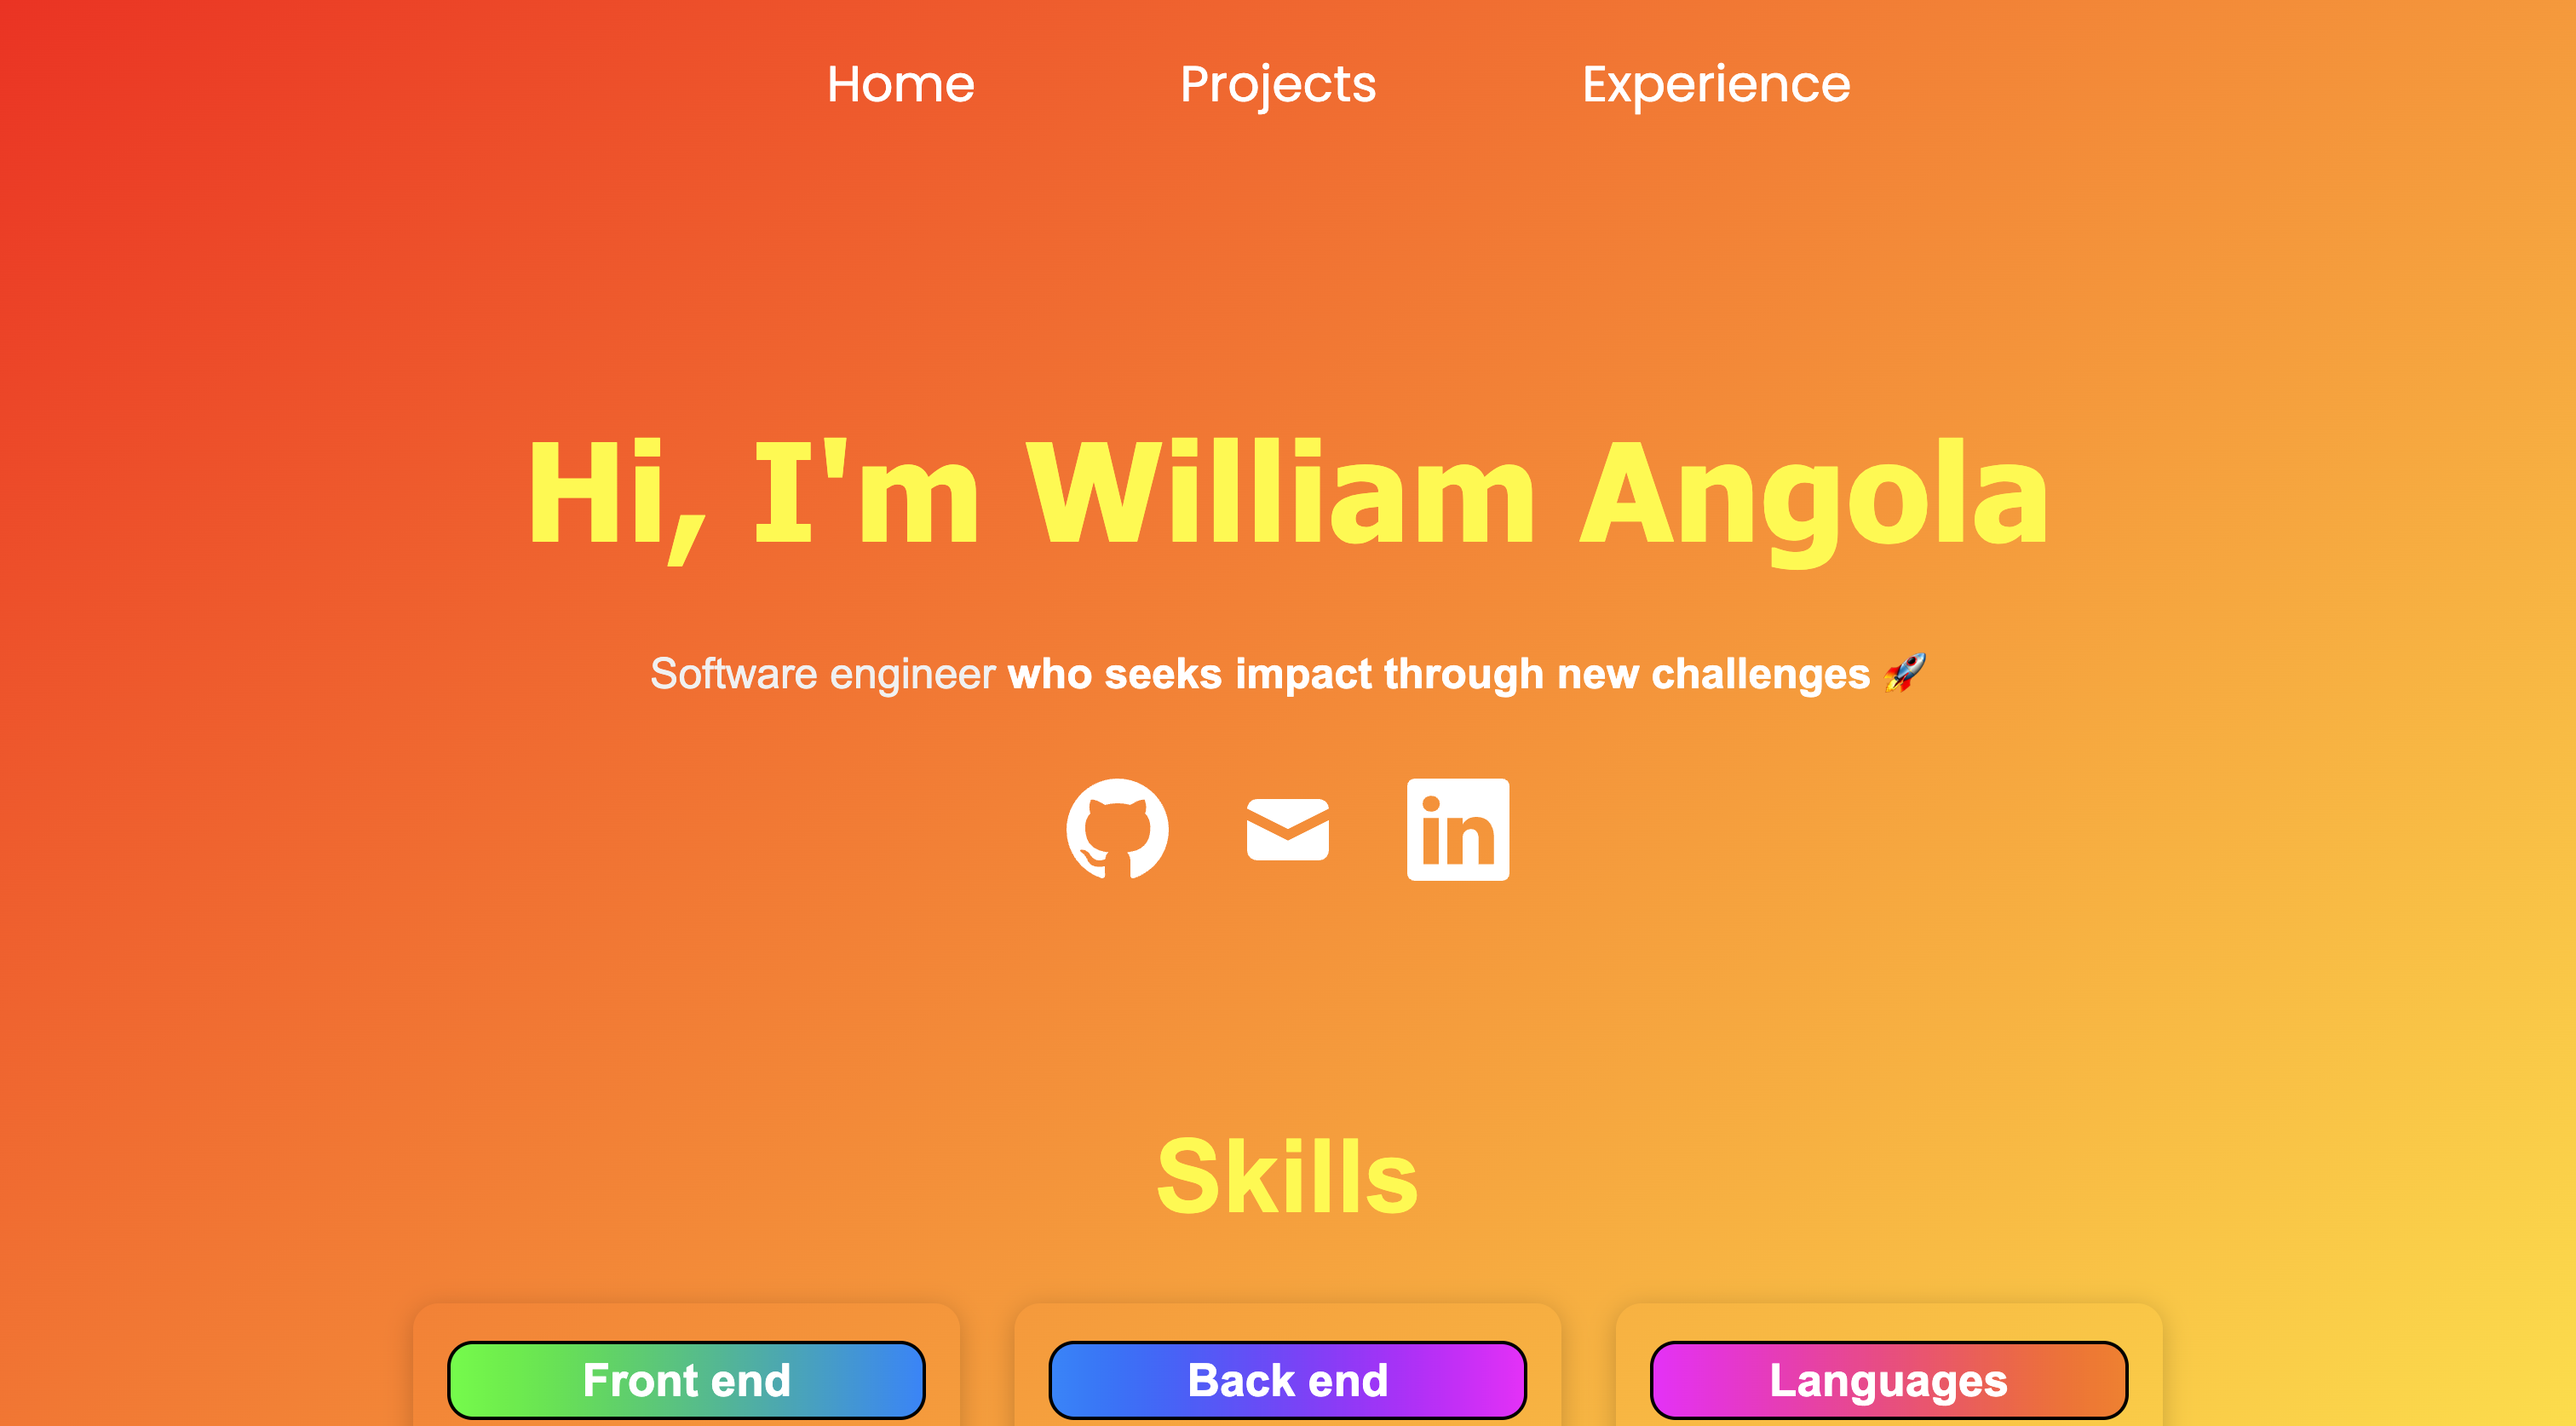
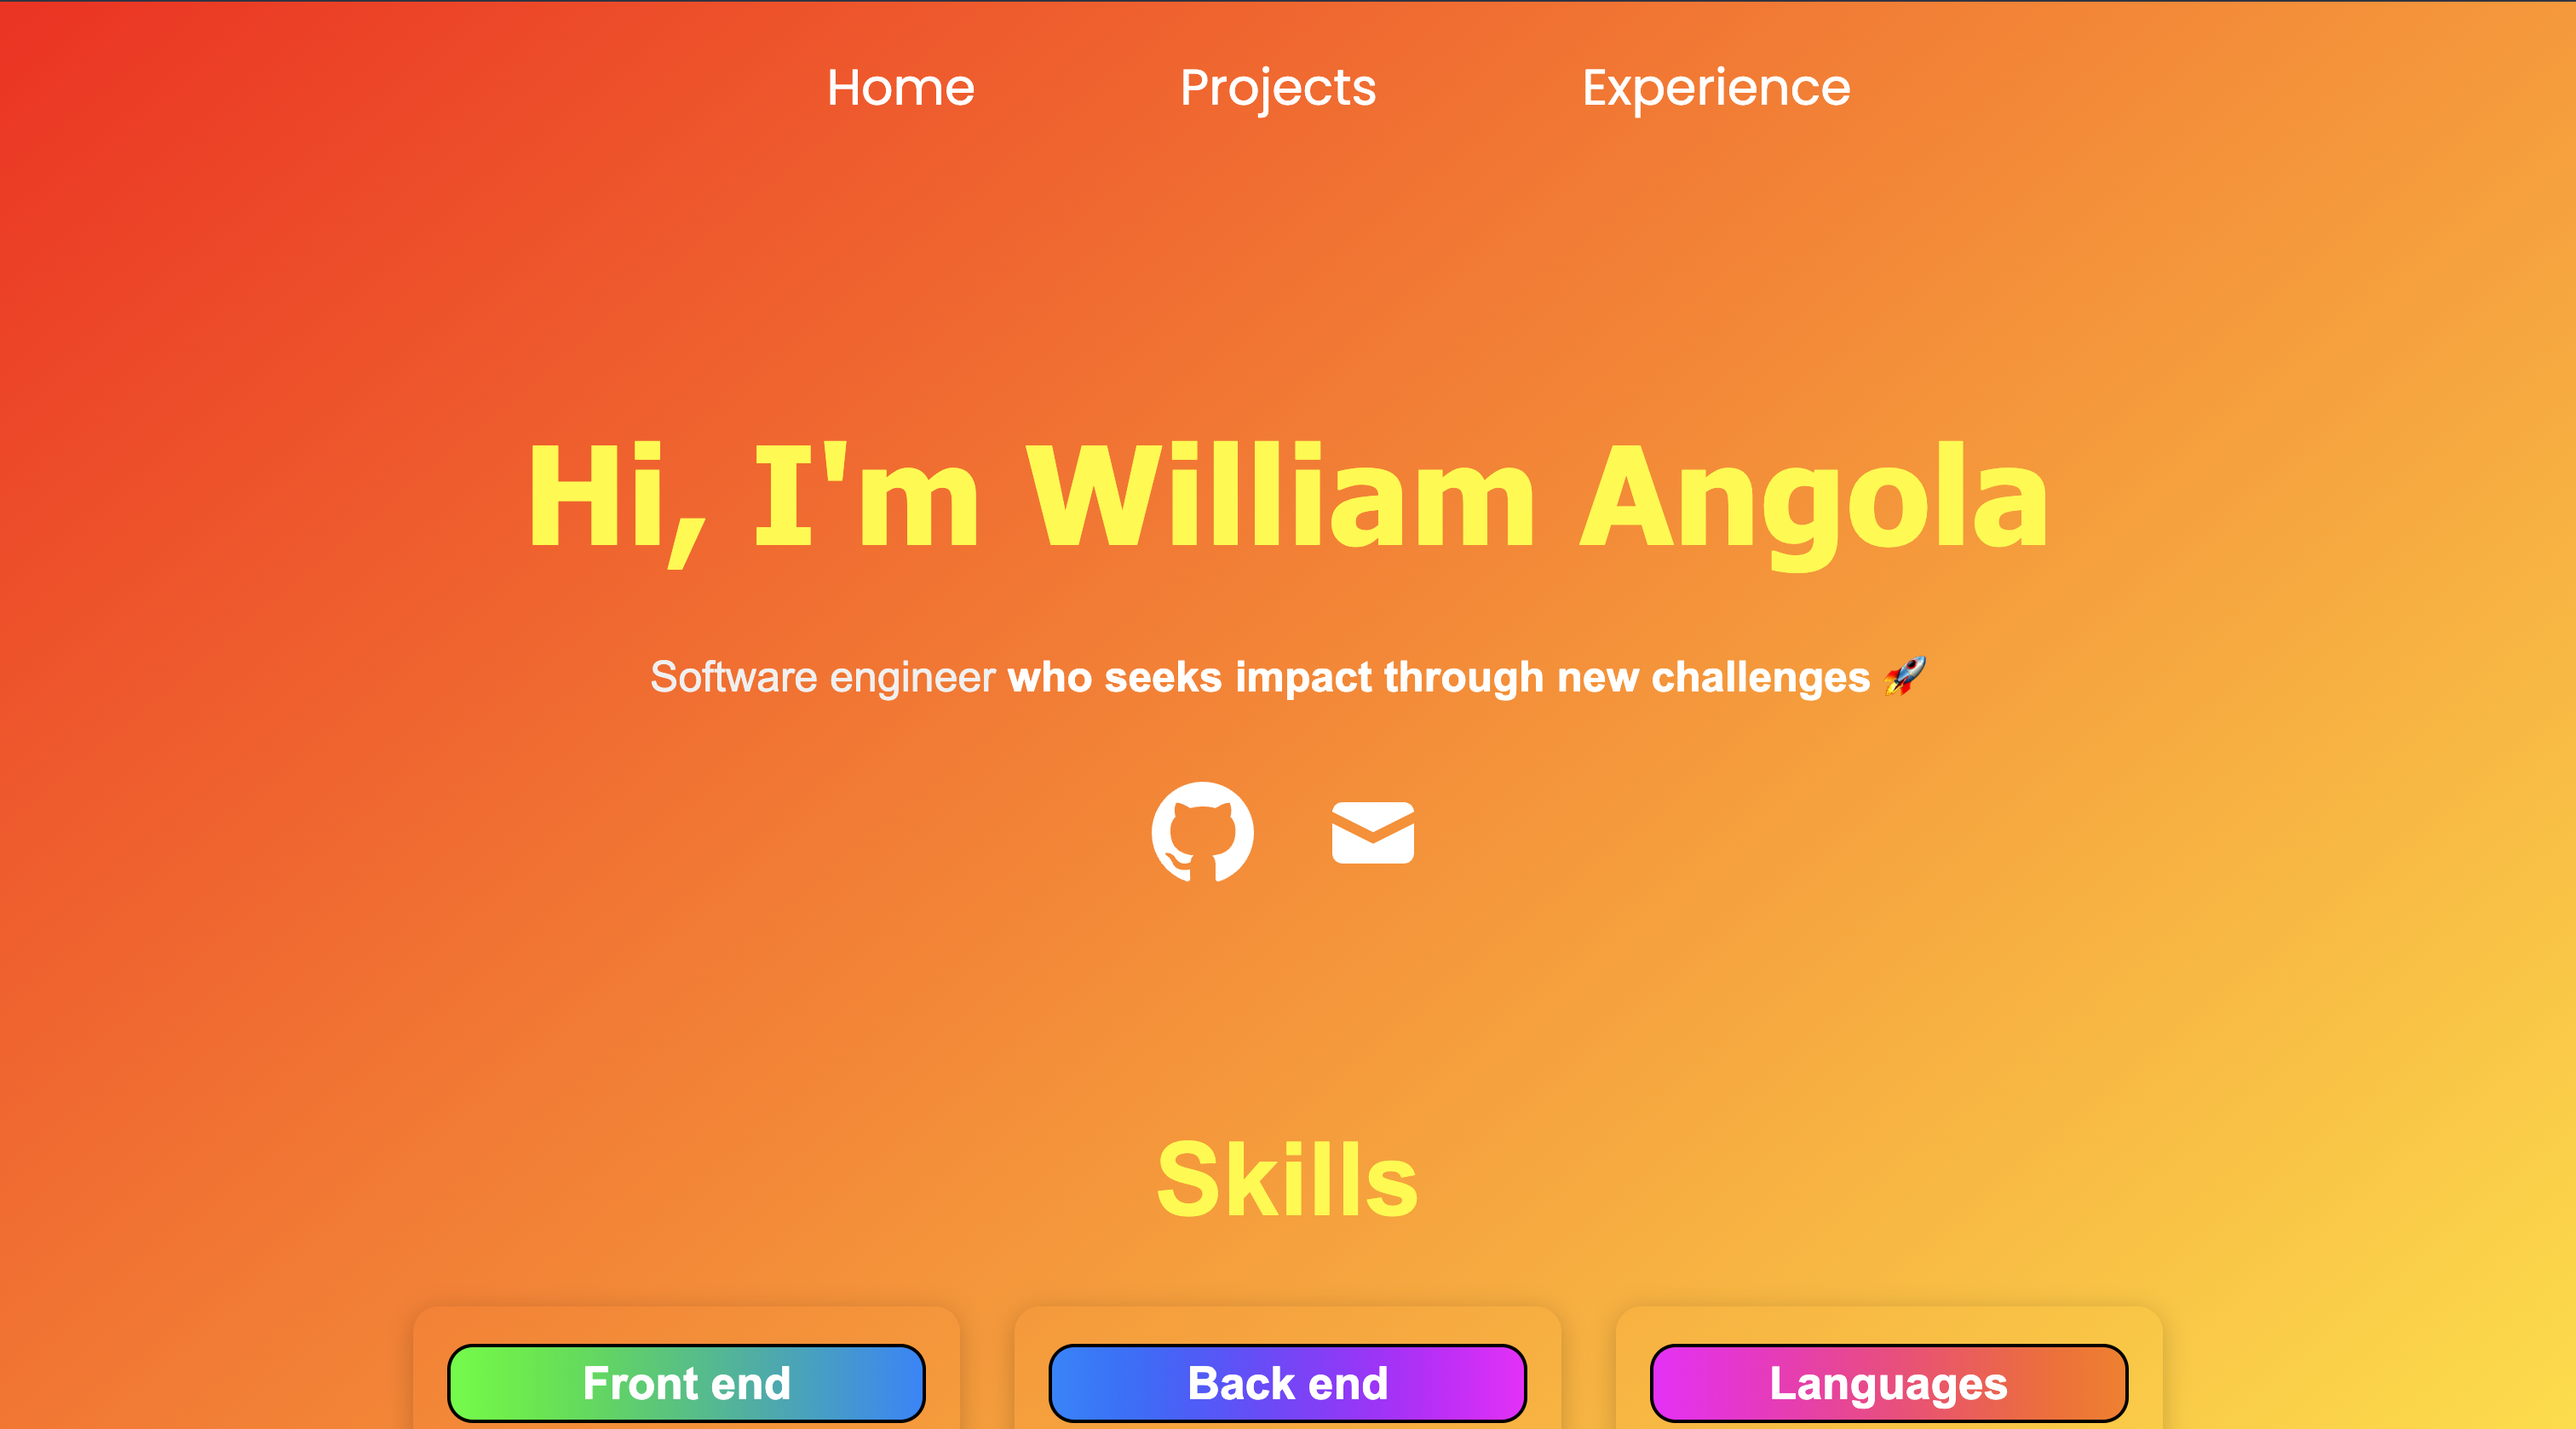
Updated home for github link of project. Updated image

diff --git a/src/pages/Home.js b/src/pages/Home.js
@@ -53,7 +53,7 @@ function Home() {
           </p>
 
           <Link
-            to={"https://github.com/Wangola"}
+            to={"https://github.com/Wangola/Website-Portfolio"}
             target="_blank"
             rel="noreferrer"
           >
@@ -62,14 +62,6 @@ function Home() {
 
           <Link to={"/contact"}>
             <EmailIcon />
-          </Link>
-
-          <Link
-            to={"https://www.linkedin.com/in/wangola/"}
-            target="_blank"
-            rel="noreferrer"
-          >
-            <LinkedInIcon />
           </Link>
         </div>
       </div>
